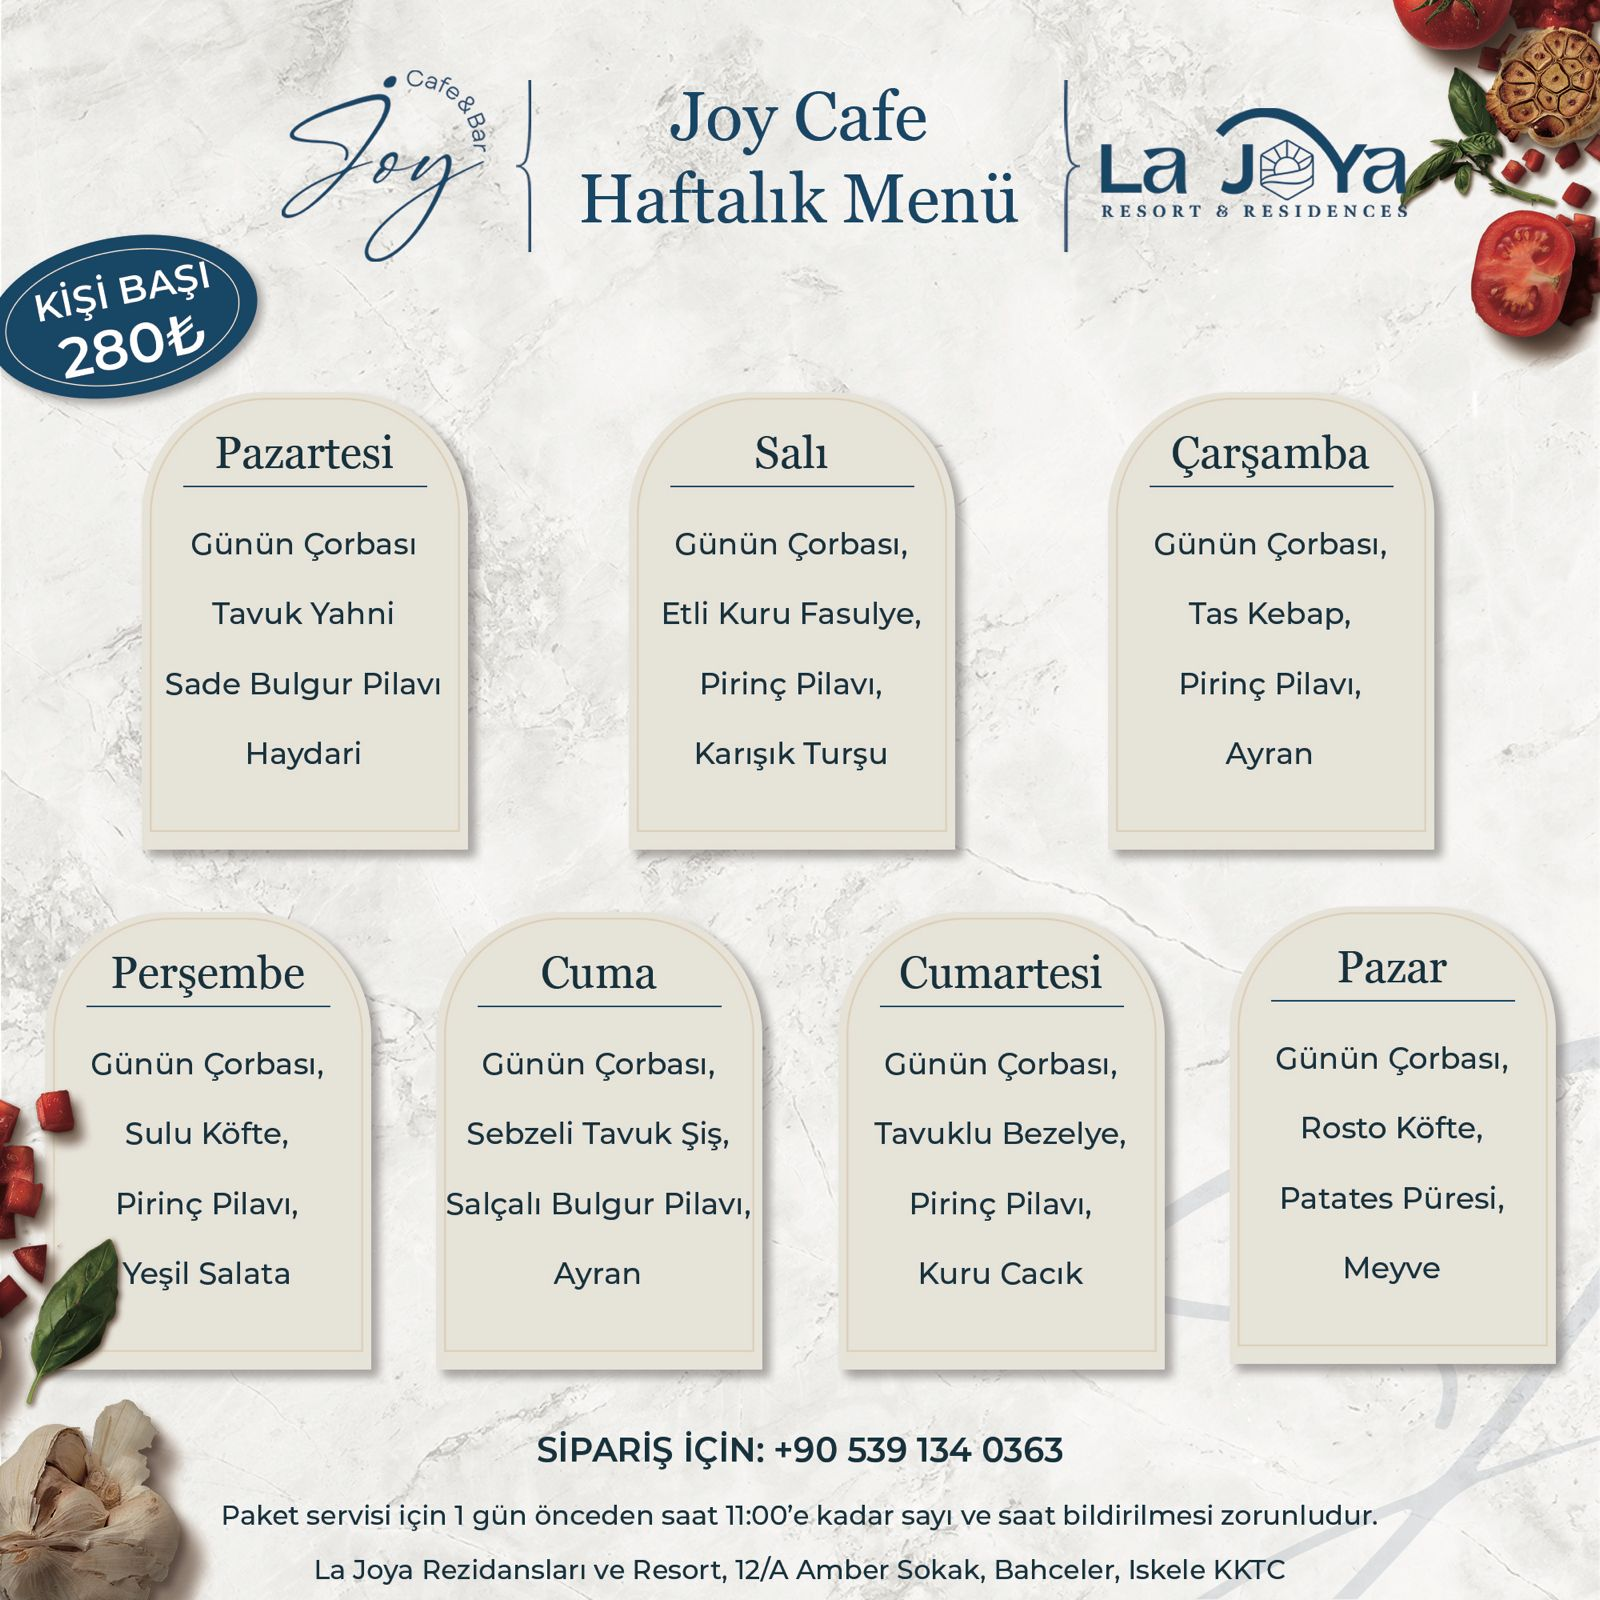
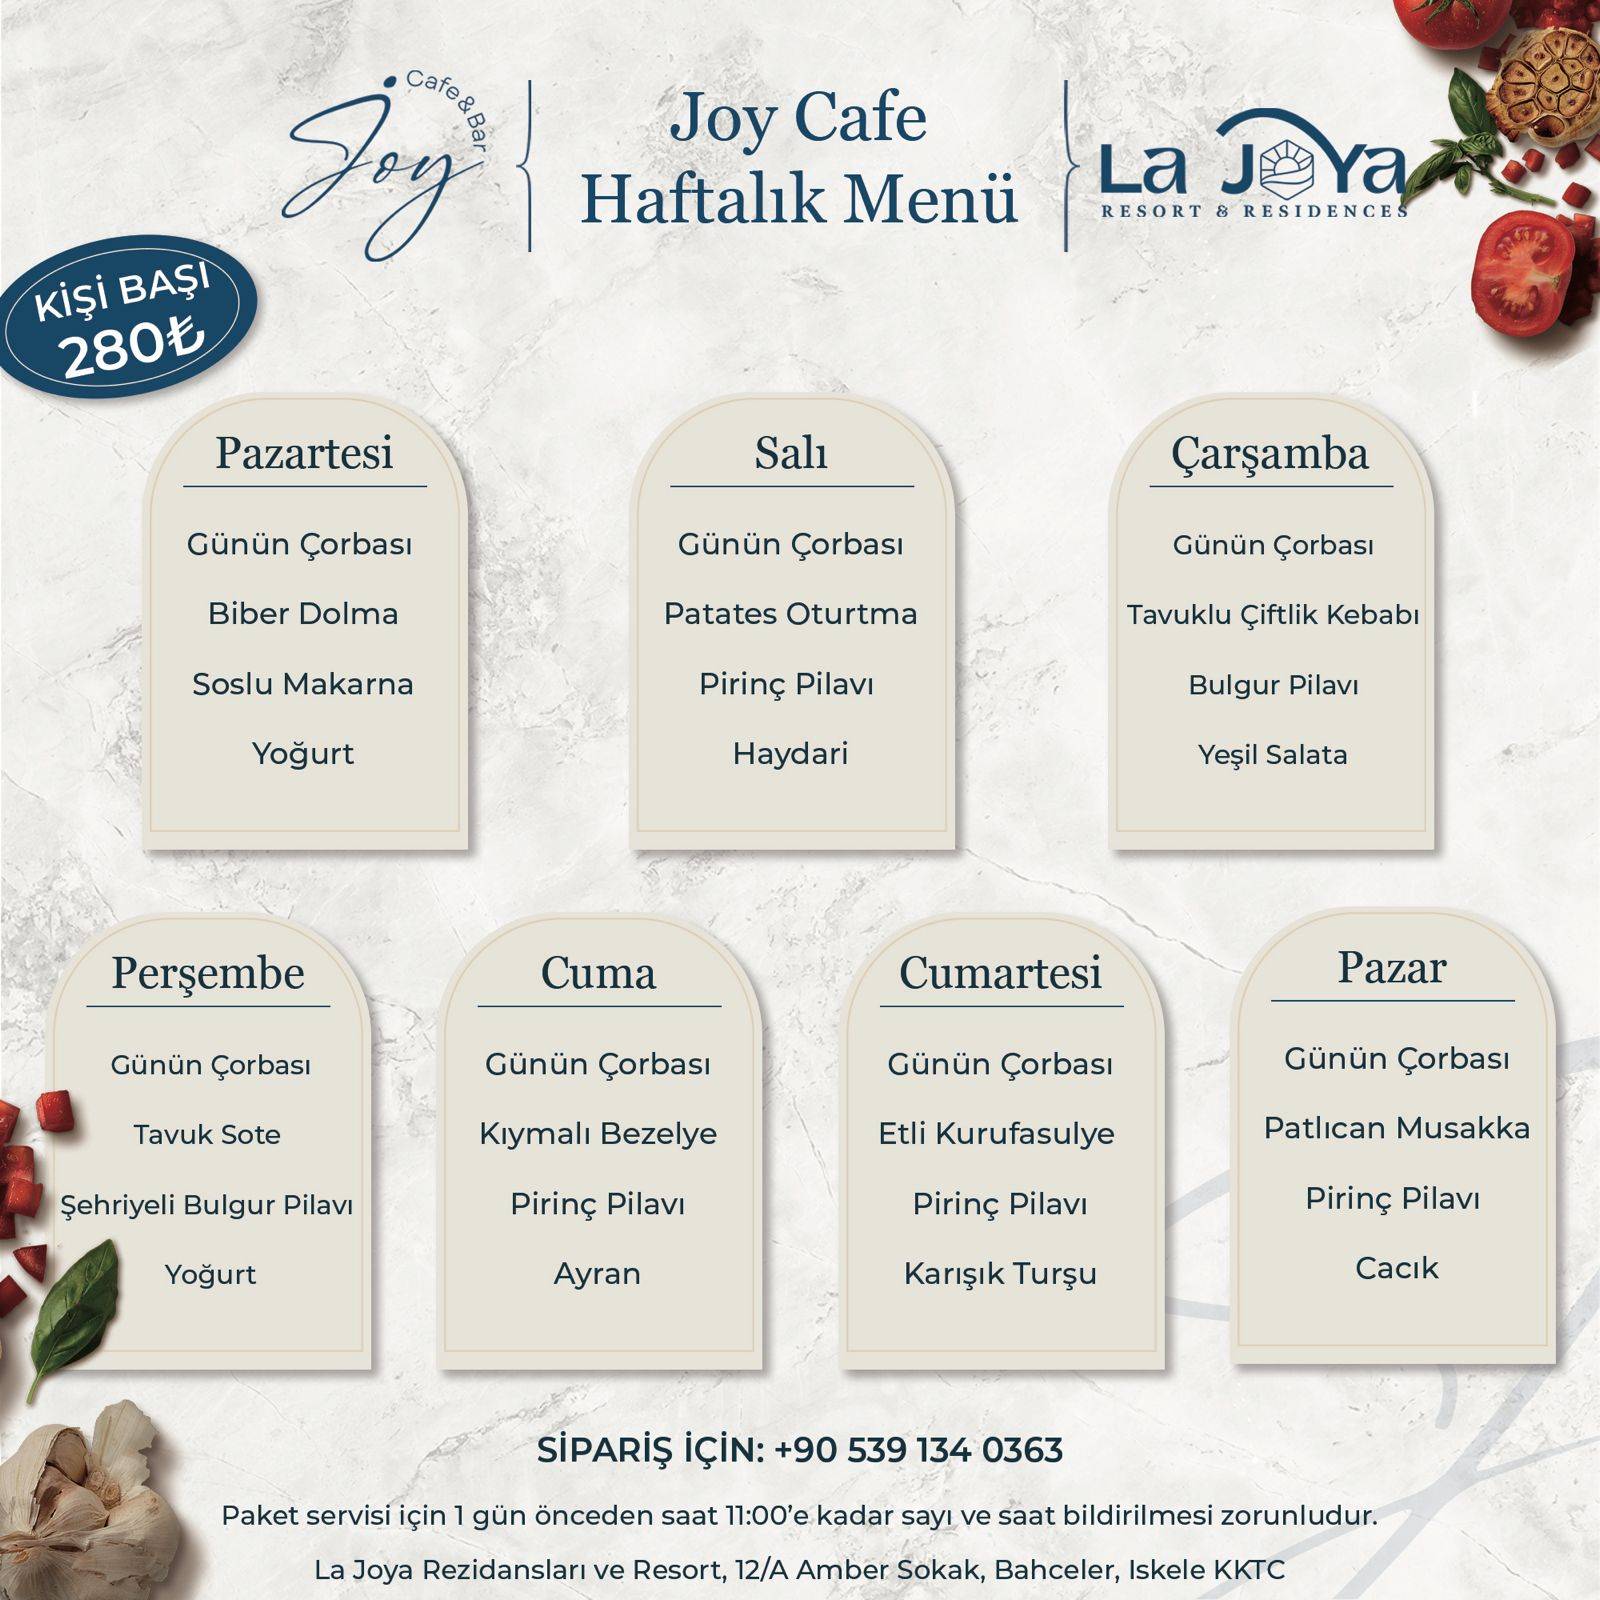
Update Joy Cafe QR menu for September 21

diff --git a/app/(standalone)/tr/qr/page.tsx b/app/(standalone)/tr/qr/page.tsx
@@ -3,7 +3,7 @@ import Image from "next/image";
 
 const title = "Joy Cafe Haftalık Menü";
 const description = "La Joya Resort & Residences Joy Cafe haftalık yemek menüsü.";
-const menuImage = "/qr/joy-cafe-menu.webp";
+const menuImage = "/qr/joy-cafe-menu.webp?v=20260921";
 
 export const metadata: Metadata = {
   title,
